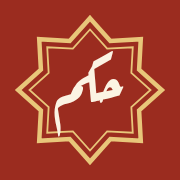
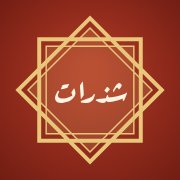
نشر الصفحة والشعار الجديد وملف التشغيل دون اتصال
Claude-Session: https://claude.ai/code/session_014XUhGH7R19SZtxyHd6JJAm

diff --git a/index.html b/index.html
@@ -3,11 +3,12 @@
 <head>
 <meta charset="utf-8">
 <meta name="viewport" content="width=device-width,initial-scale=1,viewport-fit=cover">
-<meta property="og:type" content="website"><meta property="og:locale" content="ar_AR"><meta property="og:title" content="حكم وأمثال"><meta property="og:description" content="حكم وأمثال وطرائف من أقوال د. عبدالعزيز فيصل المطوع، تُقرأ وتُشارَك في بطاقات مزخرفة."><meta property="og:site_name" content="حكم وأمثال"><meta property="og:url" content="https://almotawa80.github.io/shatharat/"><meta property="og:image" content="https://almotawa80.github.io/shatharat/icons/og-image.png"><meta property="og:image:width" content="1200"><meta property="og:image:height" content="630"><meta name="twitter:card" content="summary_large_image"><meta name="twitter:image" content="https://almotawa80.github.io/shatharat/icons/og-image.png">
+<meta property="og:type" content="website"><meta property="og:locale" content="ar_AR"><meta property="og:title" content="حكم وأمثال"><meta property="og:description" content="حكم وأمثال وطرائف من أقوال د. عبدالعزيز فيصل المطوع، تُقرأ وتُشارَك في بطاقات مزخرفة."><meta property="og:site_name" content="حكم وأمثال"><meta property="og:url" content="https://almotawa80.github.io/shatharat/"><meta property="og:image" content="https://almotawa80.github.io/shatharat/icons/og-image.png?v=2"><meta property="og:image:width" content="1200"><meta property="og:image:height" content="630"><meta name="twitter:card" content="summary_large_image"><meta name="twitter:image" content="https://almotawa80.github.io/shatharat/icons/og-image.png?v=2">
 <link rel="canonical" href="https://almotawa80.github.io/shatharat/"><link rel="manifest" href="manifest.webmanifest"><meta name="theme-color" content="#9b2c1f"><meta name="apple-mobile-web-app-capable" content="yes"><meta name="apple-mobile-web-app-title" content="حكم وأمثال"><link rel="apple-touch-icon" href="icons/apple-touch-icon.png"><link rel="icon" type="image/png" sizes="64x64" href="icons/favicon-64.png">
 <style>:root{color-scheme:light;padding-top:env(safe-area-inset-top,0px);padding-bottom:env(safe-area-inset-bottom,0px)}body{margin:0}img{max-width:100%}[hidden]{display:none!important}</style>
 <script src="config.js"></script>
 <script src="seed.js"></script>
+<script>if('serviceWorker' in navigator&&location.protocol==='https:')window.addEventListener('load',function(){navigator.serviceWorker.register('sw.js').catch(function(){})});</script>
 <title>حكم وأمثال</title>
 <meta name="description" content="حكم وأمثال وطرائف من أقوال د. عبدالعزيز فيصل المطوع، تُقرأ وتُشارَك في بطاقات مزخرفة.">
 <link rel="preconnect" href="https://fonts.googleapis.com">
@@ -160,6 +161,20 @@ mark{background:color-mix(in srgb,var(--gold) 30%,transparent);color:inherit;bor
 .tlist button[aria-pressed=true]{background:var(--madder);color:var(--on-acc);border-color:var(--madder)}
 .tlist button[aria-pressed=true] small{color:var(--on-acc)}
 @media (max-width:760px){.tsheet{border-radius:18px 18px 0 0;width:100%;max-height:75vh;padding-bottom:calc(14px + env(safe-area-inset-bottom,0px))}}
+.linkb{background:none;border:0;color:var(--madder);font:inherit;font-size:14px;text-decoration:underline;text-underline-offset:4px;cursor:pointer;margin-top:6px;padding:6px}
+#inst{position:fixed;z-index:15;inset-inline:12px;bottom:calc(14px + env(safe-area-inset-bottom,0px));max-width:520px;margin-inline:auto;display:flex;align-items:center;gap:10px;background:var(--surface);color:var(--ink);border:1px solid var(--line);border-radius:16px;padding:10px 10px 10px 8px;box-shadow:0 14px 34px -12px rgba(0,0,0,.45);animation:instUp .35s ease}
+@keyframes instUp{from{transform:translateY(30px);opacity:0}to{transform:none;opacity:1}}
+#inst .ilogo svg{width:46px;height:46px;display:block}
+#inst .itx{flex:1;min-width:0;line-height:1.45}#inst .itx b{display:block;font-size:15px}#inst .itx span{font-size:13px;color:var(--muted)}
+#inst .btn{white-space:nowrap;padding:8px 14px}
+#inst .ix{background:none;border:0;color:var(--muted);font-size:16px;padding:6px;cursor:pointer;align-self:flex-start}
+@media (max-width:760px){#inst{bottom:calc(74px + env(safe-area-inset-bottom,0px))}}
+.ihelp{gap:12px;overflow:auto}
+.ihead{display:flex;align-items:center;gap:12px}.ihead svg{width:58px;height:58px;flex:none}.ihead p{margin:0;color:var(--muted);font-size:14px;line-height:1.6}
+.ihelp section{border:1px solid var(--line);border-radius:14px;padding:10px 14px;background:var(--bg)}
+.ihelp h4{margin:0 0 4px;font-size:15px;color:var(--madder)}
+.ihelp ol{margin:0;padding-inline-start:20px;font-size:14.5px;line-height:1.9}
+.ki{width:20px;height:20px;vertical-align:-5px;color:var(--madder)}
 #ov{position:fixed;inset:0;z-index:20;background:rgba(15,12,20,.72);display:flex;align-items:center;justify-content:center;padding:16px;padding-top:calc(16px + env(safe-area-inset-top,0px));padding-bottom:calc(16px + env(safe-area-inset-bottom,0px))}
 .studio{background:var(--surface);border-radius:18px;width:min(900px,100%);max-height:100%;overflow:hidden;display:grid;grid-template-columns:minmax(0,1.15fr) minmax(0,1fr);grid-template-rows:auto 1fr auto;grid-template-areas:"pv head" "pv ctl" "pv bar";column-gap:18px;padding:16px}
 .shead{grid-area:head;display:flex;align-items:center;justify-content:space-between;gap:8px}
@@ -215,7 +230,7 @@ mark{background:color-mix(in srgb,var(--gold) 30%,transparent);color:inherit;bor
 .hero.slim{padding-bottom:18px}
 .hero .sadu{margin-inline:-16px}
 .hero-in{display:grid;grid-template-columns:minmax(0,.8fr) minmax(0,1.2fr);gap:24px;align-items:center;padding-top:18px}
-@media (max-width:820px){.hero-in{grid-template-columns:1fr;gap:10px;padding-top:10px}.hero .ttl>b{display:none}.hero .stats{flex-wrap:nowrap;overflow-x:auto;gap:6px}.hero .votd .acts{flex-wrap:nowrap}.hero .votd .btn{padding:6px 10px;font-size:.9rem}.hero .votd .btn.ghost .tx{display:none}.hero .votd{padding:14px 14px 12px}.hero .stat{flex:none}.stats{margin-top:8px}.hero .stat{padding:4px 10px;grid-auto-flow:column;gap:6px;align-items:baseline}.stat b{font-size:1.05rem!important}}
+@media (max-width:820px){.hero-in{grid-template-columns:minmax(0,1fr);gap:10px;padding-top:10px}.hero .ttl>b{display:none}.hero .stats{flex-wrap:nowrap;overflow-x:auto;gap:6px}.hero .votd .acts{flex-wrap:nowrap}.hero .votd .btn{padding:6px 10px;font-size:.9rem}.hero .votd .btn.ghost .tx{display:none}.hero .votd{padding:14px 14px 12px}.hero .stat{flex:none}.stats{margin-top:8px}.hero .stat{padding:4px 10px;grid-auto-flow:column;gap:6px;align-items:baseline}.stat b{font-size:1.05rem!important}}
 .ttl b{display:block;font-family:var(--f-display);font-weight:700;font-size:clamp(2.2rem,6vw,3.3rem);line-height:1.15;color:var(--hero-gold)}
 .ttl .who{font-family:var(--f-say);font-size:clamp(1.15rem,3.6vw,1.45rem);color:var(--hero-muted);margin-top:8px}
 .ttl .who em{font-style:normal;color:var(--hero-ink);font-weight:700}
@@ -238,6 +253,35 @@ mark{background:color-mix(in srgb,var(--gold) 30%,transparent);color:inherit;bor
 
 /* bottom bar (phones) */
 .bbar{display:none}
+.menu{position:relative}
+.topbar .mbtn{width:40px;height:40px;padding:0;display:grid;place-items:center}.mbtn svg{width:21px;height:21px}
+.mpanel{position:absolute;top:calc(100% + 8px);inset-inline-end:0;z-index:30;width:236px;background:var(--surface);color:var(--ink);border:1px solid var(--line);border-radius:16px;padding:8px;box-shadow:0 18px 40px -14px rgba(0,0,0,.45);display:grid;gap:2px;animation:mIn .16s ease}
+@keyframes mIn{from{opacity:0;transform:translateY(-6px)}to{opacity:1;transform:none}}
+.mwho{display:flex;align-items:center;gap:8px;padding:6px 8px 10px;border-bottom:1px solid var(--line);margin-bottom:4px;font-size:13.5px;color:var(--muted);min-width:0}.mwho svg{width:20px;height:20px;flex:none;color:var(--madder)}.mwho span{overflow:hidden;text-overflow:ellipsis;white-space:nowrap}
+.mlab{font-size:12px;color:var(--muted);padding:2px 8px}
+.mtheme{display:grid;grid-template-columns:repeat(3,1fr);gap:4px;background:var(--bg);border:1px solid var(--line);border-radius:12px;padding:4px;margin:0 2px 6px}
+.mtheme button{border:0;background:none;color:var(--muted);border-radius:9px;padding:6px 2px;display:grid;justify-items:center;gap:1px;font:inherit;font-size:11.5px;cursor:pointer}
+.mtheme svg{width:20px;height:20px}
+.mtheme button[aria-pressed=true]{background:var(--surface);color:var(--madder);box-shadow:0 1px 4px rgba(0,0,0,.15);font-weight:600}
+.mi{display:flex;align-items:center;gap:10px;border:0;background:none;color:var(--ink);font:inherit;font-size:14.5px;padding:9px 8px;border-radius:10px;cursor:pointer;text-align:start;width:100%}
+.mi svg{width:20px;height:20px;color:var(--muted);flex:none}
+.mi:hover,.mi:focus-visible{background:var(--tint)}
+.mi.in{color:var(--madder);font-weight:600}.mi.in svg{color:var(--madder)}
+.mi.out{color:var(--danger)}.mi.out svg{color:var(--danger)}
+/* side rail on wider screens */
+@media (min-width:761px){
+  body:has(.bbar){padding-inline-start:104px}
+  body:has(.bbar) .topbar,body:has(.bbar) .hero{margin-inline-start:-104px;padding-inline-start:120px}
+  body:has(.bbar) .hero .sadu{margin-inline-start:-120px}
+  .bbar{display:flex;flex-direction:column;gap:6px;position:fixed;inset-inline-start:0;top:0;bottom:0;width:88px;z-index:8;padding:calc(var(--tb) + 24px) 8px 16px;background:var(--surface);border-inline-end:1px solid var(--line)}
+  .bbar button{border:0;background:none;display:grid;justify-items:center;gap:4px;font:inherit;font-size:.78rem;color:var(--muted);padding:10px 2px;border-radius:14px;cursor:pointer}
+  .bbar button svg{width:24px;height:24px}
+  .bbar button:hover{background:var(--tint);color:var(--ink)}
+  .bbar button[aria-pressed="true"]{color:var(--madder);background:var(--tint);font-weight:600}
+  .bbar .plus span{width:40px;height:40px;border-radius:50%;background:var(--madder);color:var(--on-acc);display:grid;place-items:center;font-size:1.5rem}
+  body:has(.bbar) .fab{display:none}
+}
+
 @media (max-width:760px){
   body{padding-bottom:calc(84px + env(safe-area-inset-bottom,0px))}
   .bbar{display:flex;position:fixed;inset-inline:0;bottom:0;z-index:9;background:color-mix(in srgb,var(--surface) 92%,transparent);backdrop-filter:blur(12px);-webkit-backdrop-filter:blur(12px);border-top:1px solid var(--line);padding:6px 6px calc(6px + env(safe-area-inset-bottom,0px))}
@@ -274,6 +318,7 @@ footer .sadu{height:14px;background-size:28px 14px;margin-inline:0;border-radius
 (function(){
 'use strict';
 var $=function(s,r){return (r||document).querySelector(s)};
+var $$=function(s,r){return Array.prototype.slice.call((r||document).querySelectorAll(s))};
 var esc=function(s){return String(s==null?'':s).replace(/[&<>"']/g,function(c){return {'&':'&amp;','<':'&lt;','>':'&gt;','"':'&quot;',"'":'&#39;'}[c]})};
 var LS={get:function(k,d){try{var v=localStorage.getItem(k);return v===null?d:JSON.parse(v)}catch(e){return d}},set:function(k,v){try{localStorage.setItem(k,JSON.stringify(v))}catch(e){}}};
 var KEY='hikam-data-v3';
@@ -400,10 +445,48 @@ var ICO={
  star:'<svg viewBox="0 0 100 100" fill="currentColor"><path d="M50 0l14.6 14.6H85.4v20.8L100 50 85.4 64.6v20.8H64.6L50 100 35.4 85.4H14.6V64.6L0 50l14.6-14.6V14.6h20.8z"/></svg>',
  dice:'<svg width="16" height="16" viewBox="0 0 24 24" fill="none" stroke="currentColor" stroke-width="2"><rect x="3" y="3" width="18" height="18" rx="4"/><circle cx="8.5" cy="8.5" r="1.2" fill="currentColor"/><circle cx="15.5" cy="15.5" r="1.2" fill="currentColor"/><circle cx="12" cy="12" r="1.2" fill="currentColor"/></svg>'
 };
+
+function themeMode(){return document.documentElement.dataset.theme||'auto'}
+function menuHtml(){
+  var inn=S.canEdit||S.email,m=themeMode();
+  var tb=function(v,ic,l){return '<button data-act="setth" data-v="'+v+'" aria-pressed="'+(m===v)+'" title="'+l+'">'+ic+'<span>'+l+'</span></button>'};
+  return '<div class="mpanel" role="menu">'
+   +(inn?'<div class="mwho">'+NAVI.user+'<span>'+(S.email?esc(S.email):'مسجّل الدخول')+'</span></div>':'')
+   +'<div class="mlab">المظهر</div><div class="mtheme">'+tb('light',NAVI.sun,'فاتح')+tb('dark',NAVI.moon,'داكن')+tb('auto',NAVI.auto,'تلقائي')+'</div>'
+   +'<button class="mi" data-act="sharesite">'+NAVI.share+'مشاركة الموقع</button>'
+   +(isApp()?'':'<button class="mi" data-act="insthelp">'+NAVI.phone+'أضفه كتطبيق</button>')
+   +(S.canEdit?'<button class="mi" data-act="admin">'+NAVI.plus+'لوحة الإضافة</button>':'')
+   +(inn?'<button class="mi out" data-act="logout">'+NAVI.out+'تسجيل الخروج</button>':'<button class="mi in" data-act="login">'+NAVI.inI+'تسجيل الدخول</button>')
+   +'</div>';
+}
+function toggleMenu(btn,force){
+  var box=btn?btn.closest('.menu'):$('.menu'),open=$('.mpanel');
+  if(open){open.remove();$$('[data-act="menu"]').forEach(function(b){b.setAttribute('aria-expanded','false')});if(force!==true)return}
+  if(force===false||!box)return;
+  box.insertAdjacentHTML('beforeend',menuHtml());btn&&btn.setAttribute('aria-expanded','true');
+}
+document.addEventListener('click',function(e){if($('.mpanel')&&!e.target.closest('.menu'))toggleMenu(null,false)},true);
+document.addEventListener('keydown',function(e){if(e.key==='Escape'&&$('.mpanel'))toggleMenu(null,false)});
+function shareSite(){
+  var url=location.href.split('#')[0],d={title:siteName(),text:siteName()+': حكم وأمثال وطرائف من أقوال '+father()+'، تُقرأ وتُشارَك في بطاقات مزخرفة.',url:url};
+  if(navigator.share){navigator.share(d).catch(function(){})}
+  else if(navigator.clipboard){navigator.clipboard.writeText(url).then(function(){toast('نُسخ رابط الموقع')},function(){prompt('انسخ الرابط',url)})}
+  else prompt('انسخ الرابط',url);
+}
 function themeIco(){var d=isDark();return d?'☀':'☾'}
 function isDark(){var r=document.documentElement;return r.dataset.theme?r.dataset.theme==='dark':(window.matchMedia&&matchMedia('(prefers-color-scheme: dark)').matches)}
 
 var NAVI={
+ menu:'<svg viewBox="0 0 24 24" fill="none" stroke="currentColor" stroke-width="2" stroke-linecap="round"><path d="M4 7h16M4 12h16M4 17h16"/></svg>',
+ user:'<svg viewBox="0 0 24 24" fill="none" stroke="currentColor" stroke-width="1.8"><circle cx="12" cy="8.5" r="3.8"/><path d="M4.5 20c1.4-3.6 4.2-5.2 7.5-5.2s6.1 1.6 7.5 5.2"/></svg>',
+ sun:'<svg viewBox="0 0 24 24" fill="none" stroke="currentColor" stroke-width="1.8" stroke-linecap="round"><circle cx="12" cy="12" r="4.2"/><path d="M12 2.5v2.2M12 19.3v2.2M2.5 12h2.2M19.3 12h2.2M5.3 5.3l1.6 1.6M17.1 17.1l1.6 1.6M5.3 18.7l1.6-1.6M17.1 6.9l1.6-1.6"/></svg>',
+ moon:'<svg viewBox="0 0 24 24" fill="none" stroke="currentColor" stroke-width="1.8" stroke-linejoin="round"><path d="M20 14.5A8 8 0 0 1 9.5 4a8 8 0 1 0 10.5 10.5z"/></svg>',
+ auto:'<svg viewBox="0 0 24 24" fill="none" stroke="currentColor" stroke-width="1.8"><circle cx="12" cy="12" r="8"/><path d="M12 4a8 8 0 0 1 0 16z" fill="currentColor"/></svg>',
+ share:'<svg viewBox="0 0 24 24" fill="none" stroke="currentColor" stroke-width="1.8" stroke-linecap="round"><circle cx="18" cy="5.5" r="2.5"/><circle cx="6" cy="12" r="2.5"/><circle cx="18" cy="18.5" r="2.5"/><path d="M8.2 10.8l7.6-4.1M8.2 13.2l7.6 4.1"/></svg>',
+ phone:'<svg viewBox="0 0 24 24" fill="none" stroke="currentColor" stroke-width="1.8"><rect x="6.5" y="2.5" width="11" height="19" rx="2.5"/><path d="M10.5 18.5h3"/></svg>',
+ plus:'<svg viewBox="0 0 24 24" fill="none" stroke="currentColor" stroke-width="1.8" stroke-linecap="round"><rect x="4" y="4" width="16" height="16" rx="4"/><path d="M12 8v8M8 12h8"/></svg>',
+ out:'<svg viewBox="0 0 24 24" fill="none" stroke="currentColor" stroke-width="1.8" stroke-linecap="round" stroke-linejoin="round"><path d="M14 4h4a2 2 0 0 1 2 2v12a2 2 0 0 1-2 2h-4M9 8l-4 4 4 4M5 12h10"/></svg>',
+ inI:'<svg viewBox="0 0 24 24" fill="none" stroke="currentColor" stroke-width="1.8" stroke-linecap="round" stroke-linejoin="round"><path d="M14 4h4a2 2 0 0 1 2 2v12a2 2 0 0 1-2 2h-4M10 8l4 4-4 4M14 12H4"/></svg>',
  spark:'<svg viewBox="0 0 24 24" fill="none" stroke="currentColor" stroke-width="1.8" stroke-linejoin="round"><path d="M12 3l2.2 5.3L19.5 10.5l-5.3 2.2L12 18l-2.2-5.3L4.5 10.5l5.3-2.2z"/><path d="M18.5 16.5l.9 2.1 2.1.9-2.1.9-.9 2.1-.9-2.1-2.1-.9 2.1-.9z" fill="currentColor" stroke="none"/></svg>',
  home:'<svg viewBox="0 0 24 24" fill="none" stroke="currentColor" stroke-width="1.8"><path d="M3 11 12 4l9 7v9H5v-9"/></svg>',
  topics:'<svg viewBox="0 0 24 24" fill="none" stroke="currentColor" stroke-width="1.8"><path d="M4 6h16M4 12h10M4 18h6"/></svg>',
@@ -414,9 +497,7 @@ function topbar(){
   var home=S.view==='home';
   return '<div class="topbar"><div class="wrap"><button class="tb-brand" data-act="top">'+esc(siteName())+'</button>'
    +(home?'<label class="tb-search">'+ICO.search+'<input id="q" type="search" placeholder="ابحث في '+real().length+' حكمة ومثل…" value="'+esc(S.q)+'" aria-label="بحث" enterkeyhint="search"></label>':'<span class="grow"></span>')
-   +(S.canEdit?'<button class="pill txt'+(S.view==='admin'?' on':'')+'" data-act="admin">لوحة الإضافة</button>':'')
-   +'<button class="pill" data-act="'+(S.canEdit||S.email?'logout':'login')+'">'+(S.canEdit||S.email?'خروج':'دخول')+'</button>'
-   +'<button class="pill sq" data-act="theme" aria-label="تبديل الألوان" title="تبديل الألوان">'+themeIco()+'</button></div></div>';
+   +'<div class="menu"><button class="pill mbtn" data-act="menu" aria-haspopup="true" aria-expanded="false" aria-label="القائمة">'+(S.canEdit||S.email?NAVI.user:NAVI.menu)+'</button></div></div></div>';
 }
 function mast(slim){
   var who='<div class="who">من أقوال <em>'+esc(father())+'</em></div>'+(S.settings.tagline?'<div class="tag">'+esc(S.settings.tagline)+'</div>':'');
@@ -434,7 +515,7 @@ function votdHtml(){
 function bbar(){
   return '<nav class="bbar" aria-label="التنقل"><button data-act="top" aria-pressed="'+(S.view==='home'&&!S.onlyFav)+'">'+NAVI.home+'الرئيسية</button><button data-act="totopics">'+NAVI.topics+'المواضيع</button>'
    +(S.canEdit?'<button class="plus" data-act="add" aria-label="إضافة حكمة"><span>+</span>إضافة</button>':'')
-   +'<button data-act="rand">'+NAVI.spark+'اقتراح</button><button data-act="onlyfav" aria-pressed="'+S.onlyFav+'">'+NAVI.heart+'مفضلتي</button></nav>';
+   +'<button data-act="rand">'+NAVI.spark+'ومضة</button><button data-act="onlyfav" aria-pressed="'+S.onlyFav+'">'+NAVI.heart+'مفضلتي</button></nav>';
 }
 function filtersHtml(){
   var tps=topicsAll(),n=visible().length;
@@ -466,7 +547,7 @@ function sampleNote(){
   if(S.offline)bits.push('<span>تعرض آخر نسخة محفوظة لأن الاتصال غير متاح.</span>');
   return bits.length?'<div class="note-bar">'+bits.join('')+'</div>':'';
 }
-function footerHtml(){return '<footer><div class="sadu" aria-hidden="true"></div><div>'+esc(siteName())+' · من أقوال '+esc(father())+' · '+real().length+' من الحكم والأمثال</div></footer>'}
+function footerHtml(){return '<footer><div class="sadu" aria-hidden="true"></div><div>'+esc(siteName())+' · من أقوال '+esc(father())+' · '+real().length+' من الحكم والأمثال</div>'+(isApp()?'':'<button class="linkb" data-act="insthelp">أضف الموقع كتطبيق على جوالك</button>')+'</footer>'}
 function homeView(){return topbar()+mast()+'<div class="wrap">'+sampleNote()+filtersHtml()+'<div id="list">'+listHtml()+'</div>'+footerHtml()+'</div>'+(S.canEdit?'<button class="fab" data-act="add" aria-label="إضافة حكمة" title="إضافة حكمة">+</button>':'')+bbar()}
 
 function loginView(){
@@ -1026,6 +1107,9 @@ document.addEventListener('click',function(e){
    case 'login':go('login');break;
    case 'demologin':S.canEdit=S.isOwner=true;LS.set('hikam-demo-admin',true);S.adm='add';go('admin');toast('دخلت في وضع المعاينة');break;
    case 'logout':if(S.mode==='supa'){sb.auth.signOut().finally(function(){S.canEdit=S.isOwner=false;S.email='';go('home');toast('تم الخروج')})}else{S.canEdit=S.isOwner=false;LS.set('hikam-demo-admin',false);go('home');toast('تم الخروج')}break;
+   case 'menu':toggleMenu(el);break;
+   case 'setth':var rt=document.documentElement;if(el.dataset.v==='auto'){delete rt.dataset.theme;LS.set('hikam-theme','')}else{rt.dataset.theme=el.dataset.v;LS.set('hikam-theme',el.dataset.v)}$$('.mtheme button').forEach(function(b){b.setAttribute('aria-pressed',b.dataset.v===themeMode())});break;
+   case 'sharesite':toggleMenu(null,false);shareSite();break;
    case 'theme':var r=document.documentElement;r.dataset.theme=isDark()?'light':'dark';LS.set('hikam-theme',r.dataset.theme);el.textContent=themeIco();break;
    case 'admin':S.adm=S.adm||'add';go('admin');break;
    case 'admin-set':S.adm='settings';go('admin');break;
@@ -1040,6 +1124,9 @@ document.addEventListener('click',function(e){
    case 'card':if(x)openStudio(id);break;
    case 'wacard':if(x){fontsReady();sendCard(x,quickCard(x))}break;
    case 'top':if(S.view!=='home'){S.edit=null;history.replaceState(null,'',location.pathname+location.search);go('home')}else{S.onlyFav=false;S.rnd=null;render.keep=true;render();window.scrollTo({top:0,behavior:'smooth'})}break;
+   case 'install':doInstall();break;
+   case 'instno':LS.set('hikam-inst',{t:Date.now()});var ib=$('#inst');if(ib)ib.remove();break;
+   case 'insthelp':toggleMenu(null,false);instHelp();break;
    case 'totopics':openTopics();break;
    case 'pick':closeStudio();S.topic=el.dataset.v;S.kind='';S.onlyFav=false;S.shown=24;S.view='home';render();var li=$('#list');if(li)window.scrollTo(0,li.getBoundingClientRect().top+window.scrollY-130);break;
    case 'rand':var pool=S.items;if(pool.length){S.rnd=pool[Math.floor(Math.random()*pool.length)].id;if(S.view!=='home'){S.view='home'}if(window.innerWidth<=760&&el.closest('.bbar')){render.keep=true;render();openStudio(S.rnd)}else{render.keep=true;render()}}break;
@@ -1072,6 +1159,39 @@ document.addEventListener('click',function(e){
 document.addEventListener('keydown',function(e){if(e.key==='Escape'&&$('#ov'))closeStudio()});
 window.addEventListener('hashchange',function(){var h=location.hash.slice(1);if(h&&byId(h))openStudio(h)});
 try{var th=LS.get('hikam-theme','');if(th)document.documentElement.dataset.theme=th}catch(e){}
+
+/* ---------- install as an app ---------- */
+var LOGO='<svg viewBox="0 0 64 64" aria-hidden="true"><rect width="64" height="64" rx="14" fill="#8e2318"/><g fill="none" stroke="#e8c67a"><path stroke-width="2.6" d="M14 14h36v36H14z M32 6.5 57.5 32 32 57.5 6.5 32z"/></g><text x="32" y="36" text-anchor="middle" dominant-baseline="middle" font-family="Aref Ruqaa,serif" font-weight="700" font-size="17" fill="#fbf3e3">شذرات</text></svg>';
+var instEvt=null,UA=navigator.userAgent||'';
+var isIOS=/iphone|ipad|ipod/i.test(UA)||(navigator.platform==='MacIntel'&&navigator.maxTouchPoints>1);
+function isApp(){return (window.matchMedia&&matchMedia('(display-mode: standalone)').matches)||navigator.standalone===true}
+window.addEventListener('beforeinstallprompt',function(e){e.preventDefault();instEvt=e;setTimeout(instBanner,4000)});
+window.addEventListener('appinstalled',function(){instEvt=null;LS.set('hikam-inst',{done:1});var b=$('#inst');if(b)b.remove();toast('تم تثبيت التطبيق')});
+function instBanner(){
+  if(isApp()||$('#inst')||$('#ov'))return;
+  var st=LS.get('hikam-inst',{});if(st.done||(st.t&&Date.now()-st.t<7*864e5))return;
+  if(!instEvt&&!isIOS&&!/android/i.test(UA))return;
+  var d=document.createElement('div');d.id='inst';d.setAttribute('role','dialog');d.setAttribute('aria-label','ثبّت التطبيق');
+  d.innerHTML='<div class="ilogo">'+LOGO+'</div><div class="itx"><b>ثبّت '+esc(siteName())+' على جوالك</b><span>افتحه من الشاشة الرئيسية بلمسة، مثل أي تطبيق.</span></div><button class="btn primary" data-act="install">'+(instEvt?'تثبيت':'كيف؟')+'</button><button class="ix" data-act="instno" aria-label="ليس الآن">✕</button>';
+  document.body.appendChild(d);
+}
+function instHelp(){
+  var o=$('#ov');if(o)o.remove();o=document.createElement('div');o.id='ov';o.setAttribute('role','dialog');o.setAttribute('aria-modal','true');o.setAttribute('aria-label','إضافة التطبيق');
+  var shareI='<svg class="ki" viewBox="0 0 24 24" fill="none" stroke="currentColor" stroke-width="1.8"><path d="M12 15V3m0 0L8 7m4-4 4 4"/><path d="M7 10H5v11h14V10h-2"/></svg>';
+  var plusI='<svg class="ki" viewBox="0 0 24 24" fill="none" stroke="currentColor" stroke-width="1.8"><rect x="4" y="4" width="16" height="16" rx="4"/><path d="M12 8v8M8 12h8"/></svg>';
+  var dotsI='<svg class="ki" viewBox="0 0 24 24" fill="currentColor"><circle cx="12" cy="5" r="1.8"/><circle cx="12" cy="12" r="1.8"/><circle cx="12" cy="19" r="1.8"/></svg>';
+  var ios='<section><h4>في الآيفون والآيباد</h4><ol><li>افتح الموقع في <b>Safari</b>.</li><li>اضغط زر المشاركة '+shareI+' أسفل الشاشة.</li><li>اختر <b>«إضافة إلى الشاشة الرئيسية»</b> '+plusI+'</li><li>اضغط <b>«إضافة»</b>، فتظهر الأيقونة مع تطبيقاتك.</li></ol></section>';
+  var and='<section><h4>في أندرويد</h4><ol><li>افتح الموقع في <b>Chrome</b>.</li><li>اضغط زر القائمة '+dotsI+' أعلى الشاشة.</li><li>اختر <b>«تثبيت التطبيق»</b> أو <b>«إضافة إلى الشاشة الرئيسية»</b>.</li><li>اضغط <b>«تثبيت»</b>.</li></ol></section>';
+  o.innerHTML='<div class="tsheet ihelp"><div class="shead"><h3>أضف الموقع كتطبيق</h3><button class="pill sq" data-act="close" aria-label="إغلاق">✕</button></div><div class="ihead">'+LOGO+'<p>تظهر هذه الأيقونة على شاشتك، ويفتح الموقع منها بملء الشاشة دون شريط المتصفح.</p></div>'
+   +(instEvt?'<button class="btn primary big" data-act="install">ثبّت الآن</button>':'')+(isIOS?ios+and:and+ios)+'</div>';
+  document.body.appendChild(o);document.body.style.overflow='hidden';o.addEventListener('click',function(e){if(e.target===o)closeStudio()});
+}
+function doInstall(){
+  var b=$('#inst');if(b)b.remove();
+  if(instEvt){var e=instEvt;instEvt=null;e.prompt();(e.userChoice||Promise.resolve({})).then(function(r){if(r&&r.outcome==='accepted')LS.set('hikam-inst',{done:1});else LS.set('hikam-inst',{t:Date.now()})});closeStudio()}
+  else instHelp();
+}
+setTimeout(instBanner,6000);
 fontsReady();boot();
 })();
 </script>

diff --git a/sw.js b/sw.js
@@ -1,0 +1,8 @@
+// Network first, cache as fallback, so the app opens offline with the last version seen.
+const C='hikam-v1';
+self.addEventListener('install',e=>self.skipWaiting());
+self.addEventListener('activate',e=>e.waitUntil(self.clients.claim()));
+self.addEventListener('fetch',e=>{
+  const r=e.request;if(r.method!=='GET'||new URL(r.url).origin!==location.origin)return;
+  e.respondWith(fetch(r).then(res=>{if(res.ok){const cp=res.clone();caches.open(C).then(c=>c.put(r,cp))}return res}).catch(()=>caches.match(r).then(m=>m||caches.match('./'))));
+});
